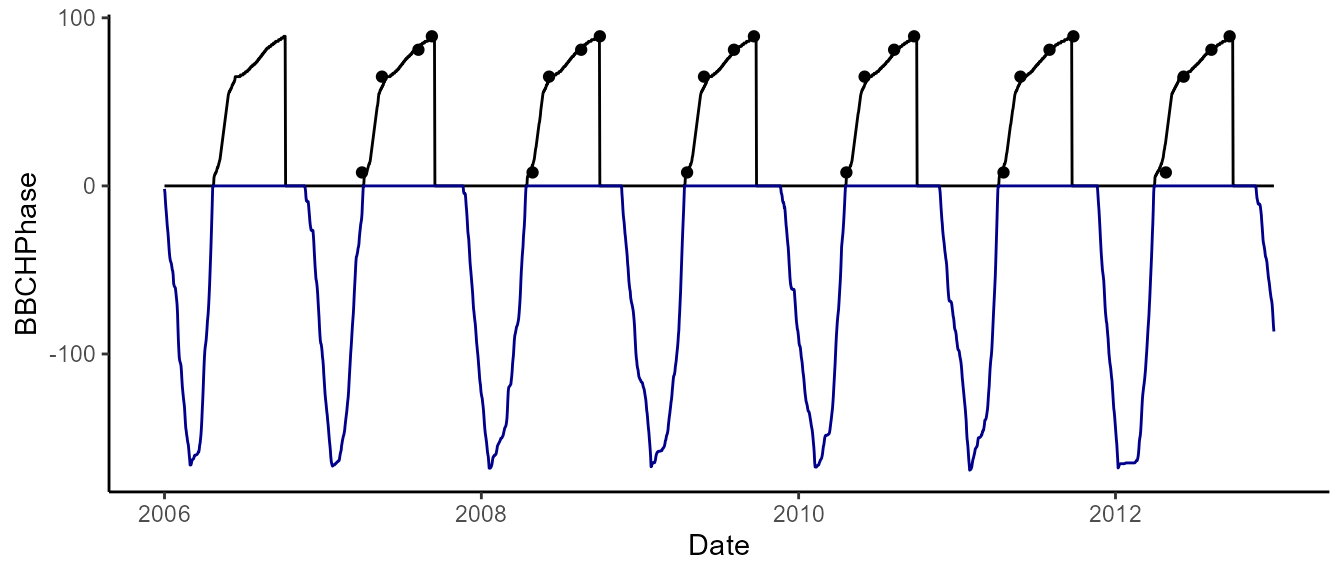
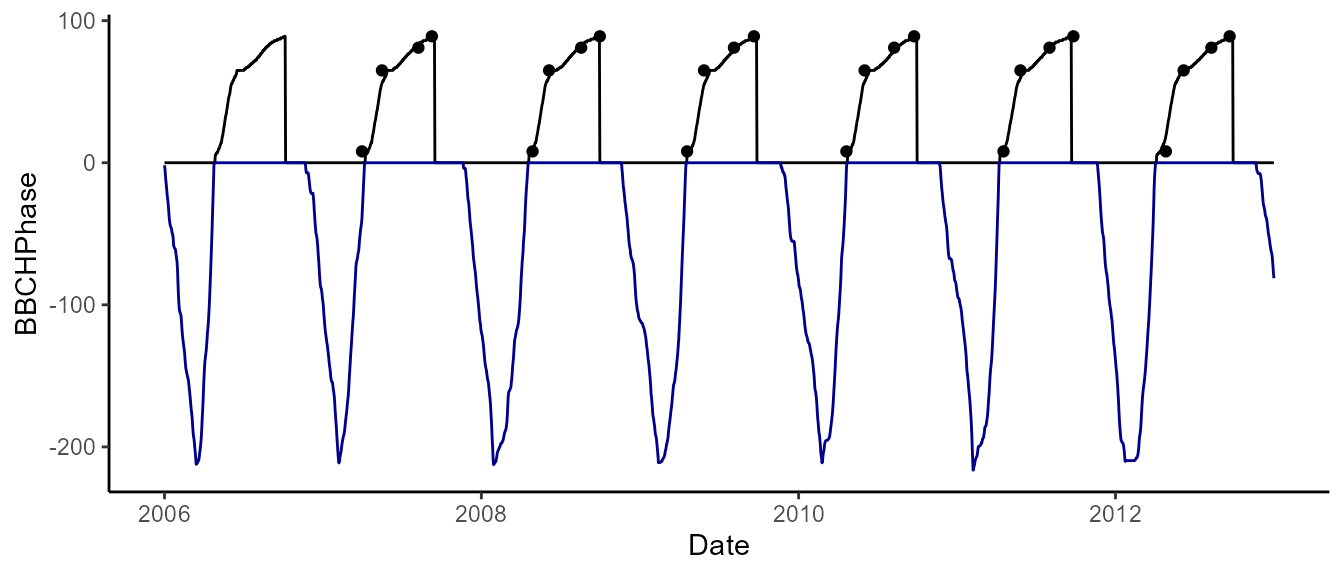
changed layout

diff --git a/docs/articles/phenology-calibration.html b/docs/articles/phenology-calibration.html
@@ -526,9 +526,9 @@ ColliOrientali
 <span><span class="co">#&gt; 🍷 Good wine takes time, and so does this model!</span></span>
 <span><span class="co">#&gt; </span></span>
 <span><span class="co">#&gt; calibration running on Carmenere, ColliOrientali....</span></span>
-<span><span class="co">#&gt; RMSE (days): 15191.2                                                           | █                             RMSE (days):  23.2                                                             | █                             RMSE (days):  32.5                                                             | █                             RMSE (days):  24.3                                                             | █                             RMSE (days):  17.0                                                             | █                             RMSE (days):  28.8                                                             | █                             RMSE (days):   8.8                                                             | █                             RMSE (days):  23.9                                                             | █                             RMSE (days):  27.2                                                             | █                             RMSE (days):  26.1                                                             | █                             RMSE (days):  19.2                                                             | █                             RMSE (days):  17.2                                                             | █                             RMSE (days):  13.6                                                             | █                             RMSE (days): 16733.2                                                           | █                             RMSE (days):  12.5                                                             | █                             RMSE (days):  15.9                                                             | █                             RMSE (days): 12172.1                                                           | █                             RMSE (days):  12.2                                                             | █                             RMSE (days):  14.2                                                             | █                             RMSE (days):  12.6                                                             | █                             RMSE (days):  17.5                                                             | █                             RMSE (days):  10.6                                                             | █                             RMSE (days):  20.8                                                             | █                             RMSE (days):  10.2                                                             | █                             RMSE (days):  20.0                                                             | █                             RMSE (days):  10.4                                                             | █                             RMSE (days):  16.1                                                             | █                             RMSE (days):  10.9                                                             | █                             RMSE (days):  18.0                                                             | █                             RMSE (days):   8.8                                                             | ██                            RMSE (days):  12.3                                                             | ██                            RMSE (days):  14.0                                                             | ██                            RMSE (days):   8.9                                                             | ██                            RMSE (days):  13.6                                                             | ██                            RMSE (days):   8.9                                                             | ██                            RMSE (days):  13.5                                                             | ██                            RMSE (days):   9.1                                                             | ██                            RMSE (days):  12.6                                                             | ██                            RMSE (days):   8.9                                                             | ██                            RMSE (days):  12.1                                                             | ██                            RMSE (days):   8.0                                                             | ██                            RMSE (days):  13.0                                                             | ██                            RMSE (days):   8.3                                                             | ██                            RMSE (days):   8.4                                                             | ██                            RMSE (days):  11.1                                                             | ██                            RMSE (days):   8.5                                                             | ██                            RMSE (days):   9.4                                                             | ██                            RMSE (days):   7.9                                                             | ██                            RMSE (days):   8.2                                                             | ██                            RMSE (days):   8.6                                                             | ██                            RMSE (days):   8.3                                                             | ██                            RMSE (days):   9.6                                                             | ██                            RMSE (days):   7.8                                                             | ██                            RMSE (days):   8.4                                                             | ██                            RMSE (days):   8.4                                                             | ██                            RMSE (days):   7.9                                                             | ██                            RMSE (days):   8.8                                                             | ██                            RMSE (days):   7.7                                                             | ██                            RMSE (days):   9.5                                                             | ██                            RMSE (days):   7.6                                                             | ███                           RMSE (days):   8.8                                                             | ███                           RMSE (days):   7.8                                                             | ███                           RMSE (days):   9.3                                                             | ███                           RMSE (days):   7.5                                                             | ███                           RMSE (days):   7.5                                                             | ███                           RMSE (days):   9.0                                                             | ███                           RMSE (days):   8.6                                                             | ███                           RMSE (days):   7.7                                                             | ███                           RMSE (days):   8.3                                                             | ███                           RMSE (days):   7.6                                                             | ███                           RMSE (days</span></span>
-<span><span class="co">#&gt; ):   8.4                                                             | ███                           RMSE (days):   7.4                                                             | ███                           RMSE (days):   7.2                                                             | ███                           RMSE (days):   8.4                                                             | ███                           RMSE (days):   7.7                                                             | ███                           RMSE (days):   7.2                                                             | ███                           RMSE (days):   8.1                                                             | ███                           RMSE (days):   7.2                                                             | ███                           RMSE (days):   7.8                                                             | ███                           RMSE (days):   7.4                                                             | ███                           RMSE (days):   7.7                                                             | ███                           RMSE (days):   7.3                                                             | ███                           RMSE (days):   7.2                                                             | ███                           RMSE (days):   7.4                                                             | ███                           RMSE (days):   7.6                                                             | ███                           RMSE (days):   7.2                                                             | ███                           RMSE (days):   7.9                                                             | ███                           RMSE (days):   7.3                                                             | ███                           RMSE (days):   7.2                                                             | ███                           RMSE (days):   7.3                                                             | ████                          RMSE (days):   7.5                                                             | ████                          RMSE (days):   7.2                                                             | ████                          RMSE (days):   7.2                                                             | ████                          RMSE (days):   7.2                                                             | ████                          RMSE (days):   7.3                                                             | ████                          RMSE (days):   7.2                                                             | ████                          RMSE (days):   7.4                                                             | ████                          RMSE (days):   7.3                                                             | ████                          RMSE (days):   7.2                                                             | ████                          RMSE (days):   7.3                                                             | ████                          RMSE (days):   7.3                                                             | ████                          RMSE (days):   7.2                                                             | ████                          RMSE (days):   7.1                                                             | ████                          RMSE (days):   7.0                                                             | ████                          RMSE (days):   7.4                                                             | ████                          RMSE (days):   7.1                                                             | ████                          RMSE (days):   7.4                                                             | ████                          RMSE (days):   7.0                                                             | ████                          RMSE (days):   7.0                                                             | ████                          RMSE (days):   7.3                                                             | ████                          RMSE (days):   7.2                                                             | ████                          RMSE (days):   7.2                                                             | ████                          RMSE (days):   7.2                                                             | ████                          RMSE (days):   7.2                                                             | ████                          RMSE (days):   7.1                                                             | ████                          RMSE (days):   7.1                                                             | ████                          RMSE (days):   7.2                                                             | ████                          RMSE (days):   7.0                                                             | ████                          RMSE (days):   7.4                                                             | ████                          RMSE (days):   7.1                                                             | █████                         RMSE (days):   7.1                                                             | █████                         RMSE (days):   7.2                                                             | █████                         RMSE (days):   7.2                                                             | █████                         RMSE (days):   7.0                                                             | █████                         RMSE (days):   7.1                                                             | █████                         RMSE (days):   7.1                                                             | █████                         RMSE (days):   7.2                                                             | █████                         RMSE (days):   7.2                                                             | █████                         RMSE (days):   7.1                                                             | █████                         RMSE (days):   7.3                                                             | █████                         RMSE (days):   7.1                                                             | █████                         RMSE (days):   7.1                                                             | █████                         RMSE (days):   7.1                                                             | █████                         RMSE (days):   7.1                                                             | █████                         RMSE (days):   7.1                                                             | █████                         RMSE (days):   7.1                                                             | █████                         RMSE (days):   7.1                                                             | █████                         RMSE (days):   7.1                                                 </span></span>
-<span><span class="co">#&gt;             | █████                         RMSE (days):   7.1                                                             | █████                         RMSE (days):   7.0                                                             | █████                         RMSE (days):   7.0                                                             | █████                         RMSE (days):   7.1                                                             | █████                         RMSE (days):   7.2                                                             | █████                         RMSE (days):   7.1                                                             | █████                         RMSE (days):   7.0                                                             | █████                         RMSE (days):   7.1                                                             | █████                         RMSE (days):   7.1                                                             | █████                         RMSE (days):   7.1                                                             | █████                         RMSE (days):   7.0                                                             | █████                         RMSE (days):   7.1                                                             | ██████                        RMSE (days):   7.1                                                             | ██████                        RMSE (days):   7.0                                                             | ██████                        RMSE (days):   7.0                                                             | ██████                        RMSE (days):   7.1                                                             | ██████                        RMSE (days):   7.1                                                             | ██████                        RMSE (days):   7.0                                                             | ██████                        RMSE (days):   7.1                                                             | ██████                        RMSE (days):   7.0                                                             | ██████                        RMSE (days):   7.0                                                             | ██████                        RMSE (days):   7.2                                                             | ██████                        RMSE (days):   7.0                                                             | ██████                        RMSE (days):   7.1                                                             | ██████                        RMSE (days):   7.1                                                             | ██████                        RMSE (days):   7.0                                                             | ██████                        RMSE (days):   7.0                                                             | ██████                        RMSE (days):   7.0                                                             | ██████                        RMSE (days):   7.0                                                             | ██████                        RMSE (days):   7.0                                                             | ██████                        RMSE (days):   7.0                                                             | ██████                        RMSE (days):   7.0                                                             | ██████                        RMSE (days):   7.0                                                             | ██████                        RMSE (days):   7.0                                                             | ██████                        RMSE (days):   7.0                                                             | ██████                        RMSE (days):   7.0                                                             | ██████                        RMSE (days):   7.0                                                             | ██████                        RMSE (days):   7.0                                                             | ██████                         </span></span>
+<span><span class="co">#&gt; RMSE (days): 16733.2                                                           | █                             RMSE (days):  15.6                                                             | █                             RMSE (days):  13.4                                                             | █                             RMSE (days):  14.8                                                             | █                             RMSE (days):  10.4                                                             | █                             RMSE (days):  29.6                                                             | █                             RMSE (days): 15191.2                                                           | █                             RMSE (days): 6324.7                                                            | █                             RMSE (days):  13.0                                                             | █                             RMSE (days):  22.4                                                             | █                             RMSE (days):  27.8                                                             | █                             RMSE (days):  19.3                                                             | █                             RMSE (days):  20.8                                                             | █                             RMSE (days): 16733.2                                                           | █                             RMSE (days):  12.8                                                             | █                             RMSE (days):  18.5                                                             | █                             RMSE (days):  20.3                                                             | █                             RMSE (days):  27.2                                                             | █                             RMSE (days):  11.2                                                             | █                             RMSE (days):  19.8                                                             | █                             RMSE (days):  11.4                                                             | █                             RMSE (days):  23.7                                                             | █                             RMSE (days):  10.4                                                             | █                             RMSE (days):  20.0                                                             | █                             RMSE (days):  11.6                                                             | █                             RMSE (days):  21.1                                                             | █                             RMSE (days):   9.0                                                             | █                             RMSE (days):  10.2                                                             | █                             RMSE (days):  10.2                                                             | █                             RMSE (days):  10.2                                                             | ██                            RMSE (days):  16.1                                                             | ██                            RMSE (days):   9.3                                                             | ██                            RMSE (days):  14.0                                                             | ██                            RMSE (days):   8.9                                                             | ██                            RMSE (days):  10.6                                                             | ██                            RMSE (days):  12.5                                                             | ██                            RMSE (days):   8.8                                                             | ██                            RMSE (days):  10.8                                                             | ██                            RMSE (days):   8.8                                                             | ██                            RMSE (days):   8.4                                                             | ██                            RMSE (days):  13.4                                                             | ██                            RMSE (days):   8.6                                                             | ██                            RMSE (days):   9.9                                                             | ██                            RMSE (days):   9.8                                                             | ██                            RMSE (days):   9.7                                                             | ██                            RMSE (days):   8.5                                                             | ██                            RMSE (days):   9.0                                                             | ██                            RMSE (days):  11.3                                                             | ██                            RMSE (days):   8.2                                                             | ██                            RMSE (days):   9.5                                                             | ██                            RMSE (days):   8.3                                                             | ██                            RMSE (days):  10.5                                                             | ██                            RMSE (days):   8.1                                                             | ██                            RMSE (days):   9.3                                                             | ██                            RMSE (days):   7.9                                                             | ██                            RMSE (days):   8.4                                                             | ██                            RMSE (days):   8.7                                                             | ██                            RMSE (days):   8.8                                                             | ██                            RMSE (days):   8.4                                                             | ██                            RMSE (days):   9.1                                                             | ███                           RMSE (days):   8.1                                                             | ███                           RMSE (days):   8.5                                                             | ███                           RMSE (days):   8.2                                                             | ███                           RMSE (days):   9.4                                                             | ███                           RMSE (days):   8.0                                                             | ███                           RMSE (days):   8.9                                                             | ███                           RMSE (days):   8.0                                                             | ███                           RMSE (days):   8.1                                                             | ███                           RMSE (days):   7.8                                                             | ███                           RMSE (days):   8.1                                                             | ███                           RMSE (days</span></span>
+<span><span class="co">#&gt; ):   7.7                                                             | ███                           RMSE (days):   8.5                                                             | ███                           RMSE (days):   7.7                                                             | ███                           RMSE (days):   7.5                                                             | ███                           RMSE (days):   8.6                                                             | ███                           RMSE (days):   7.7                                                             | ███                           RMSE (days):   7.5                                                             | ███                           RMSE (days):   8.6                                                             | ███                           RMSE (days):   8.0                                                             | ███                           RMSE (days):   8.0                                                             | ███                           RMSE (days):   8.3                                                             | ███                           RMSE (days):   7.6                                                             | ███                           RMSE (days):   7.6                                                             | ███                           RMSE (days):   8.0                                                             | ███                           RMSE (days):   7.5                                                             | ███                           RMSE (days):   7.4                                                             | ███                           RMSE (days):   7.6                                                             | ███                           RMSE (days):   7.8                                                             | ███                           RMSE (days):   7.5                                                             | ███                           RMSE (days):   8.4                                                             | ████                          RMSE (days):   7.5                                                             | ████                          RMSE (days):   7.7                                                             | ████                          RMSE (days):   7.6                                                             | ████                          RMSE (days):   7.7                                                             | ████                          RMSE (days):   7.4                                                             | ████                          RMSE (days):   7.2                                                             | ████                          RMSE (days):   7.5                                                             | ████                          RMSE (days):   7.9                                                             | ████                          RMSE (days):   7.5                                                             | ████                          RMSE (days):   7.7                                                             | ████                          RMSE (days):   7.5                                                             | ████                          RMSE (days):   7.6                                                             | ████                          RMSE (days):   7.7                                                             | ████                          RMSE (days):   7.4                                                             | ████                          RMSE (days):   7.5                                                             | ████                          RMSE (days):   7.3                                                             | ████                          RMSE (days):   7.4                                                             | ████                          RMSE (days):   7.3                                                             | ████                          RMSE (days):   7.4                                                             | ████                          RMSE (days):   7.4                                                             | ████                          RMSE (days):   7.5                                                             | ████                          RMSE (days):   7.4                                                             | ████                          RMSE (days):   7.4                                                             | ████                          RMSE (days):   7.5                                                             | ████                          RMSE (days):   7.5                                                             | ████                          RMSE (days):   7.4                                                             | ████                          RMSE (days):   7.4                                                             | ████                          RMSE (days):   7.3                                                             | ████                          RMSE (days):   7.4                                                             | ████                          RMSE (days):   7.4                                                             | █████                         RMSE (days):   7.5                                                             | █████                         RMSE (days):   7.4                                                             | █████                         RMSE (days):   7.4                                                             | █████                         RMSE (days):   7.4                                                             | █████                         RMSE (days):   7.4                                                             | █████                         RMSE (days):   7.5                                                             | █████                         RMSE (days):   7.5                                                             | █████                         RMSE (days):   7.4                                                             | █████                         RMSE (days):   7.4                                                             | █████                         RMSE (days):   7.3                                                             | █████                         RMSE (days):   7.4                                                             | █████                         RMSE (days):   7.3                                                             | █████                         RMSE (days):   7.2                                                             | █████                         RMSE (days):   7.5                                                             | █████                         RMSE (days):   7.2                                                             | █████                         RMSE (days):   7.4                                                             | █████                         RMSE (days):   7.2                                                             | █████                         RMSE (days):   7.3                                                 </span></span>
+<span><span class="co">#&gt;             | █████                         RMSE (days):   7.3                                                             | █████                         RMSE (days):   7.3                                                             | █████                         RMSE (days):   7.3                                                             | █████                         RMSE (days):   7.2                                                             | █████                         RMSE (days):   7.2                                                             | █████                         RMSE (days):   7.4                                                             | █████                         RMSE (days):   7.3                                                             | █████                         RMSE (days):   7.2                                                             | █████                         RMSE (days):   7.4                                                             | █████                         RMSE (days):   7.3                                                             | █████                         RMSE (days):   7.2                                                             | █████                         RMSE (days):   7.2                                                             | ██████                        RMSE (days):   7.3                                                             | ██████                        RMSE (days):   7.2                                                             | ██████                        RMSE (days):   7.2                                                             | ██████                        RMSE (days):   7.2                                                             | ██████                        RMSE (days):   7.2                                                             | ██████                        RMSE (days):   7.2                                                             | ██████                        RMSE (days):   7.2                                                             | ██████                        RMSE (days):   7.4                                                             | ██████                        RMSE (days):   7.2                                                             | ██████                         </span></span>
 <span><span class="co">#&gt; ✅ Calibration completed successfully</span></span>
 <span><span class="co">#&gt; 🧹 Cleaning up temporary output files...</span></span>
 <span><span class="co">#&gt; 🗑 Deleted 1 temporary output files.</span></span></code></pre></div>
@@ -590,7 +590,7 @@ higher the iterations, the longer the time to relax a bit)</li>
 <td align="left">colliorientali</td>
 <td align="left">carmenere</td>
 <td align="left">bbch08</td>
-<td align="right">11.029552</td>
+<td align="right">12.046862</td>
 <td align="right">5</td>
 <td align="right">20</td>
 </tr>
@@ -598,7 +598,7 @@ higher the iterations, the longer the time to relax a bit)</li>
 <td align="left">colliorientali</td>
 <td align="left">carmenere</td>
 <td align="left">bbch63</td>
-<td align="right">84.830207</td>
+<td align="right">80.280414</td>
 <td align="right">76</td>
 <td align="right">90</td>
 </tr>
@@ -606,7 +606,7 @@ higher the iterations, the longer the time to relax a bit)</li>
 <td align="left">colliorientali</td>
 <td align="left">carmenere</td>
 <td align="left">bbch65</td>
-<td align="right">36.191131</td>
+<td align="right">39.983899</td>
 <td align="right">30</td>
 <td align="right">50</td>
 </tr>
@@ -614,7 +614,7 @@ higher the iterations, the longer the time to relax a bit)</li>
 <td align="left">colliorientali</td>
 <td align="left">carmenere</td>
 <td align="left">bbch68</td>
-<td align="right">15.475537</td>
+<td align="right">13.272792</td>
 <td align="right">5</td>
 <td align="right">20</td>
 </tr>
@@ -622,7 +622,7 @@ higher the iterations, the longer the time to relax a bit)</li>
 <td align="left">colliorientali</td>
 <td align="left">carmenere</td>
 <td align="left">bbch81</td>
-<td align="right">54.642484</td>
+<td align="right">51.056853</td>
 <td align="right">40</td>
 <td align="right">65</td>
 </tr>
@@ -630,7 +630,7 @@ higher the iterations, the longer the time to relax a bit)</li>
 <td align="left">colliorientali</td>
 <td align="left">carmenere</td>
 <td align="left">bbch85</td>
-<td align="right">73.171081</td>
+<td align="right">67.139888</td>
 <td align="right">65</td>
 <td align="right">80</td>
 </tr>
@@ -638,7 +638,7 @@ higher the iterations, the longer the time to relax a bit)</li>
 <td align="left">colliorientali</td>
 <td align="left">carmenere</td>
 <td align="left">chillThreshold</td>
-<td align="right">7.499087</td>
+<td align="right">6.828512</td>
 <td align="right">6</td>
 <td align="right">9</td>
 </tr>
@@ -646,7 +646,7 @@ higher the iterations, the longer the time to relax a bit)</li>
 <td align="left">colliorientali</td>
 <td align="left">carmenere</td>
 <td align="left">chillingRequirement</td>
-<td align="right">165.977107</td>
+<td align="right">210.141506</td>
 <td align="right">80</td>
 <td align="right">280</td>
 </tr>
@@ -654,7 +654,7 @@ higher the iterations, the longer the time to relax a bit)</li>
 <td align="left">colliorientali</td>
 <td align="left">carmenere</td>
 <td align="left">cycleLength</td>
-<td align="right">2125.763041</td>
+<td align="right">2084.813149</td>
 <td align="right">1500</td>
 <td align="right">3000</td>
 </tr>
